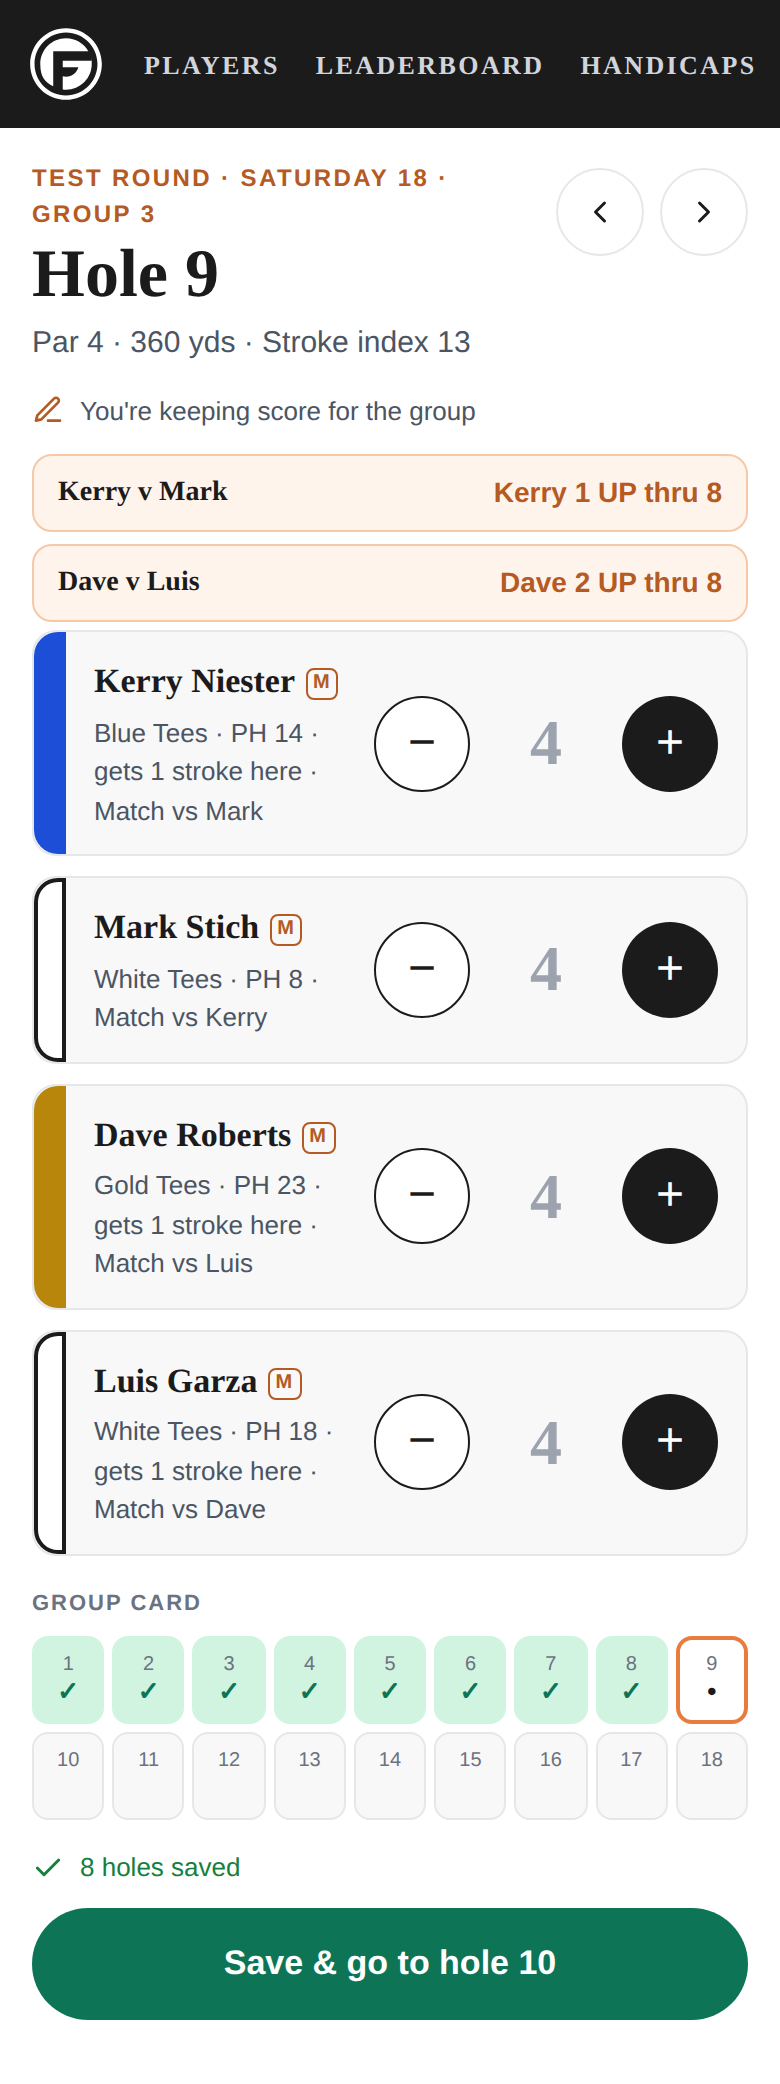
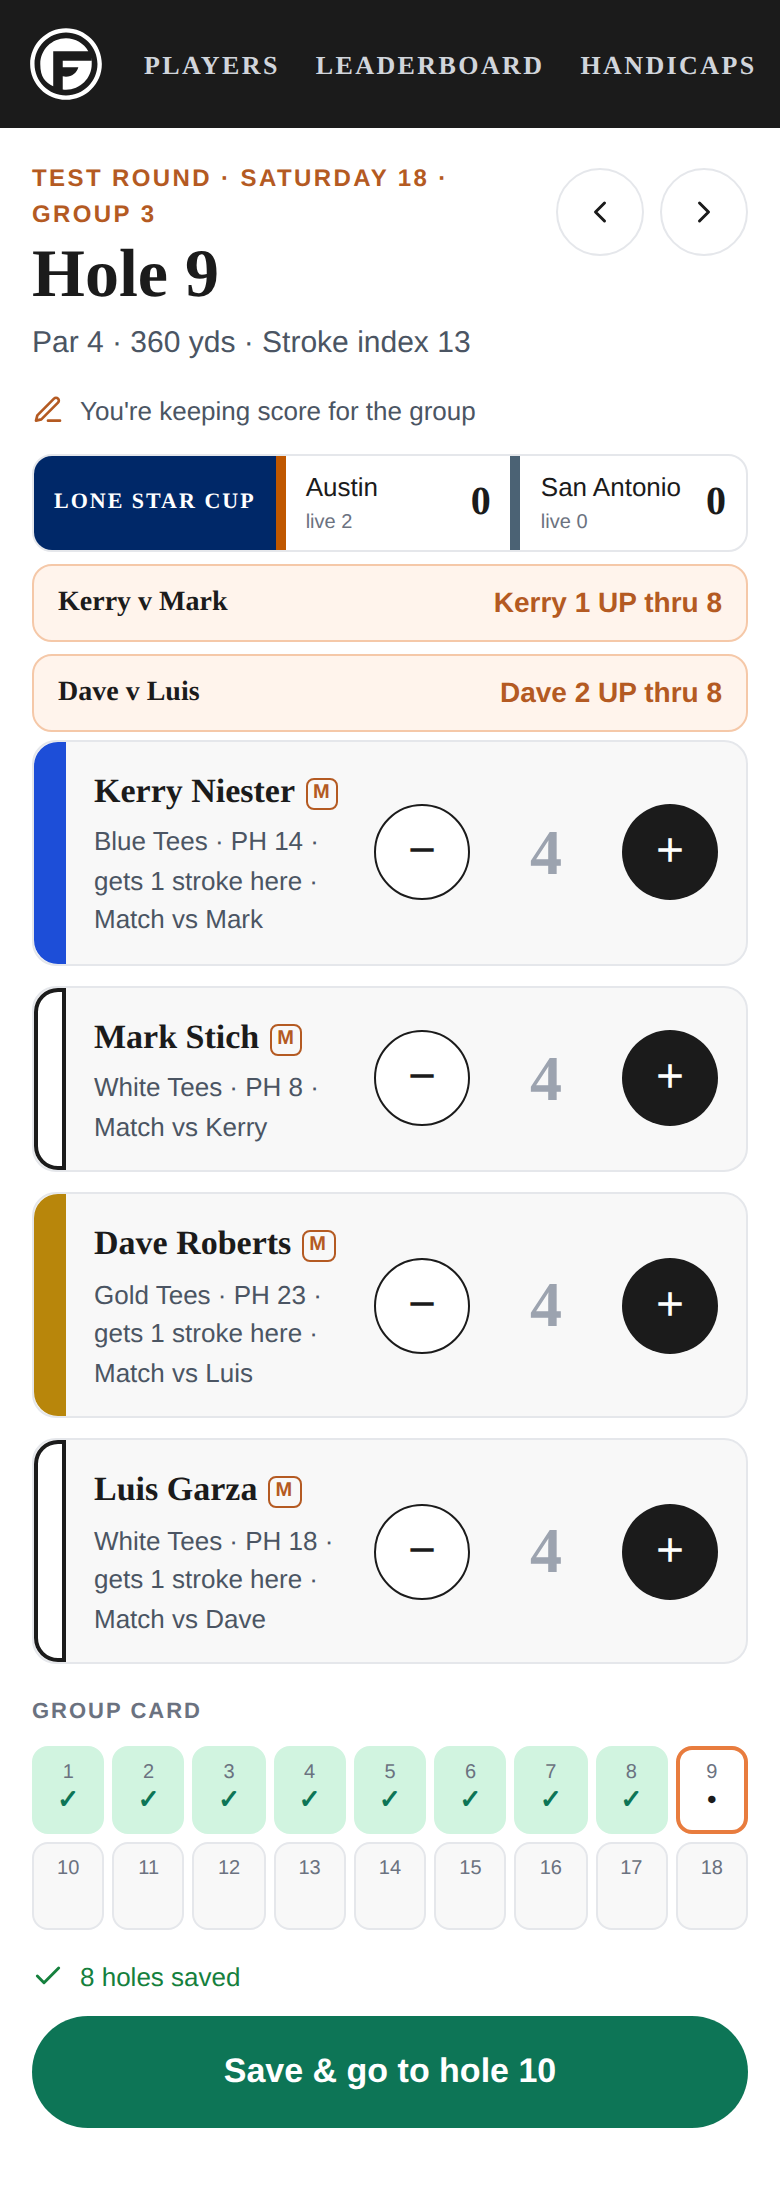
Score entry: won match shimmers; cup rounds show team standings (v2.498.5)
Claude-Session: https://claude.ai/code/session_01PeGTnLppc6bpJPrSmUWsVP

diff --git a/transaction-tracker/templates/score_entry.html b/transaction-tracker/templates/score_entry.html
@@ -210,6 +210,32 @@
         .se-mline .st { font-weight: 700; color: #B45A22; white-space: nowrap; }
         .se-mline.final { background: #F8F8F8; border-color: #E5E7EB; }
         .se-mline.final .st { color: #1B1B1B; }
+        /* A WON MATCH SHIMMERS (Kerry 2026-09-26: "kind of like our champion
+           banner on the Points Races") — the champion plaque from
+           contests.html: TGF-dark, gold frame, gold-gradient text, a slow
+           shine sweeping across. */
+        .se-mline.won { position: relative; overflow: hidden; border: 1px solid #D4A017;
+            background: linear-gradient(135deg, #1B1B1B 0%, #2E2414 55%, #1B1B1B 100%);
+            box-shadow: inset 0 0 0 2px #1B1B1B, inset 0 0 0 3px rgba(212,160,23,.55), 0 4px 14px rgba(212,160,23,.28); }
+        .se-mline.won .who { color: #D4A017; }
+        .se-mline.won .st { font-family: Bitter, Georgia, serif; font-weight: 800; color: #FFD75E;
+            background: linear-gradient(100deg, #F7E7A0 0%, #FFD75E 35%, #E0A93C 62%, #F7E7A0 100%);
+            -webkit-background-clip: text; background-clip: text; -webkit-text-fill-color: transparent; }
+        .se-mline.won::after { content: ""; position: absolute; top: -60%; bottom: -60%; width: 36%; left: -60%;
+            transform: skewX(-20deg); pointer-events: none;
+            background: linear-gradient(75deg, transparent, rgba(255,255,255,.16), transparent);
+            animation: seChampShine 3.4s ease-in-out infinite; }
+        @keyframes seChampShine { 0% { left: -60%; } 55% { left: 135%; } 100% { left: 135%; } }
+        /* LONE STAR CUP team standings beside the match */
+        .se-cup { display: flex; align-items: stretch; border-radius: 10px; overflow: hidden; border: 1px solid #E5E7EB;
+                  font-size: 13px; }
+        .se-cup .lbl { background: #002868; color: #FFFFFF; font: 700 11px/1.2 Bitter, Georgia, serif; letter-spacing: 1px;
+                       text-transform: uppercase; padding: 8px 10px; display: flex; align-items: center; }
+        .se-cup .tm { flex: 1; display: flex; justify-content: space-between; align-items: center; padding: 6px 10px; gap: 6px; }
+        .se-cup .tm b { font: 800 20px/1 Bitter, Georgia, serif; }
+        .se-cup .aus { border-left: 5px solid #BF5700; }
+        .se-cup .sa { border-left: 5px solid #4B6274; }
+        .se-cup .proj { display: block; font-size: 10px; color: #6B7280; }
         /* THE TURN: each player's nine under his name, tap one to edit */
         .se-mini { display: grid; grid-template-columns: repeat(9, minmax(0, 1fr)); gap: 3px; margin-top: 6px; width: 100%; }
         .se-mini button { height: 32px; border-radius: 7px; border: 1px solid #E5E7EB; background: #FFFFFF; cursor: pointer;
@@ -514,7 +540,12 @@
             const mine = new Set(card.players.map((p) => p.customer_id));
             const ms = (card.match_status || []).filter((m) => m.sides.flat().some((c) => mine.has(c)));
             if (!ms.length) return "";
-            return `<div class="se-mstrip">${ms.map((m) => {
+            const half = (x) => { const w = Math.floor(x), f = x - w; return (w || f === 0 ? String(w) : "") + (f >= 0.5 ? "½" : ""); };
+            const cs = card.cup_standings;
+            const cup = cs ? `<div class="se-cup"><span class="lbl">Lone Star Cup</span>
+                <span class="tm aus"><span>Austin<span class="proj">live ${half(cs.austin_projected)}</span></span><b>${half(cs.austin)}</b></span>
+                <span class="tm sa"><span>San Antonio<span class="proj">live ${half(cs.sa_projected)}</span></span><b>${half(cs.sa)}</b></span></div>` : "";
+            return `<div class="se-mstrip">${cup}${ms.map((m) => {
                 const vs = `${esc(m.names[0])} v ${esc(m.names[1])}`;
                 let st;
                 if (!m.thru) st = "Not started";
@@ -523,7 +554,8 @@
                 // holes or a putt-off), so the phone says all square, not halved.
                 else if (m.lead_side == null) st = m.final ? (m.tie_rule === "halve" ? "Halved" : `All square after ${m.thru}`) : `All square thru ${m.thru}`;
                 else st = `${esc(m.names[m.lead_side])} ${m.final ? "wins " + esc(m.margin) : esc(m.margin) + " thru " + m.thru}`;
-                return `<div class="se-mline ${m.final ? "final" : ""}"><span class="who">${vs}</span><span class="st">${st}</span></div>`;
+                const won = m.final && m.lead_side != null;
+                return `<div class="se-mline ${won ? "won" : m.final ? "final" : ""}"><span class="who">${vs}</span><span class="st">${st}</span></div>`;
             }).join("")}</div>`;
         }
         const helpBtn = (k) => `<button type="button" class="se-help ${help[k] ? "on" : ""}" data-act="help" data-k="${k}" aria-expanded="${help[k] ? "true" : "false"}">How It Works</button>`;

diff --git a/transaction-tracker/static/js/version.js b/transaction-tracker/static/js/version.js
@@ -1,5 +1,14 @@
-window.TGF_VERSION = "2.498.4";
+window.TGF_VERSION = "2.498.5";
 window.TGF_CHANGELOG = [
+  {
+    version: "2.498.5",
+    date: "2026-09-26",
+    title: "Score entry: a won match shimmers; cup rounds show the team standings",
+    changes: [
+      "Kerry, 2026-09-26: 'If a match is won, then that heading needs to shimmer kind of like our champion banner on the Points Races.' A finished match with a winner renders in the champion-plaque style (dark plate, gold lettering, the same passing shine as the Points Races champion banner). A halved or unfinished match stays plain.",
+      "Kerry: 'For Lone Star cup, It should also show an update to the Team Standings.' When the round is bound to a Lone Star Cup session, the card carries cup_standings read from the cup board itself (lsc_board_payload): Austin and San Antonio points, with the live projection under each. Rounds with no cup session show no strip. Golf Genius stays the official record."
+    ]
+  },
   {
     version: "2.498.4",
     date: "2026-09-26",

diff --git a/transaction-tracker/email_parser/score_entry.py b/transaction-tracker/email_parser/score_entry.py
@@ -190,6 +190,26 @@ def admin_overview(event_id: int, base_url: str | None = None, db_path=None) -> 
             "qr": _qr_dial(event_id, db_path)}
 
 
+def _cup_standings(round_id: int) -> dict | None:
+    """The Lone Star Cup team standings when this round is bound to a cup
+    session (Kerry 2026-09-26: "For Lone Star cup, It should also show an
+    update to the Team Standings"). Read from the cup board itself
+    (lsc_cup.lsc_board_payload), so the phone and the board agree."""
+    rm = round_matches(round_id)
+    if not any(v.get("session") is not None for v in rm.values()):
+        return None
+    from email_parser.lsc_cup import lsc_board_payload
+    b = lsc_board_payload()
+    if not b.get("configured"):
+        return None
+    t = b.get("teams") or {}
+    return {"austin": (t.get("austin") or {}).get("points", 0.0),
+            "sa": (t.get("sa") or {}).get("points", 0.0),
+            "austin_projected": (t.get("austin") or {}).get("projected", 0.0),
+            "sa_projected": (t.get("sa") or {}).get("projected", 0.0),
+            "points_to_win": b.get("points_to_win")}
+
+
 def _genders(conn, cids: list) -> dict:
     """{customer_id: 'M' | 'F'} from customers.gender; {} when the column
     is not there yet (a fresh database before its boot migration)."""
@@ -1074,13 +1094,17 @@ def get_group_card(group_id: int, device_id: str | None = None, db_path=None) ->
             match_status = _match_status(conn, g)
         except Exception:                 # a match read must never cost the card
             match_status = []
+        try:
+            cup = _cup_standings(g["round_id"]) if match_status else None
+        except Exception:
+            cup = None
     return {**extras, "group_id": group_id, "round_id": g["round_id"], "event_id": g["event_id"],
             "round_label": g["round_label"], "round_date": g["round_date"],
             "holes": g["holes"], "status": g["status"], "label": g["label"],
             "group_num": g["group_num"],
             "start_hole": g["start_hole"], "tee_time": g["tee_time"],
             "course": holes, "players": players, "teams": teams, "scores": scores,
-            "marks": marks, "match_status": match_status, "matches": {str(k): v for k, v in round_matches(g["round_id"]).items()},
+            "marks": marks, "match_status": match_status, "cup_standings": cup, "matches": {str(k): v for k, v in round_matches(g["round_id"]).items()},
             "lock": _lock_view(lock, device_id, names)}
 
 

diff --git a/transaction-tracker/test_score_entry.py b/transaction-tracker/test_score_entry.py
@@ -332,6 +332,11 @@ check("the phone's match standing is the cup board's (same engine, same numbers)
       len(ms) == 1 and ms[0]["margin"] == bd["gg_margin"] and ms[0]["thru"] == bd["thru"]
       and ms[0]["holes"].get("1") == 0 and ms[0]["names"] == ["Kerry", "Adam"], (ms, bd.get("gg_margin")))
 check("a Lone Star Cup match halves a tie", ms[0]["tie_rule"] == "halve", ms[0])
+cs = se.get_group_card(sg)["cup_standings"]
+bt = lsc_board_payload()["teams"]
+check("a cup round's card carries the team standings, the board's own numbers",
+      cs is not None and cs["austin"] == bt["austin"]["points"] and cs["sa"] == bt["sa"]["points"]
+      and cs["austin_projected"] == bt["austin"]["projected"], (cs, bt))
 db.set_app_setting("lsc_matches", "")
 se.write_scores(sg, "sk", 101, [mk("MK8", 102, 1, 5), mk("MK11", 101, 1, 4)])
 check("a round-level match must use players in the round",
@@ -342,6 +347,7 @@ check("a round-level match (the preview's demo) also marks who has a match",
       mt.get("102", {}).get("opponents") == [105] and "101" not in mt, mt)
 check("a regular-season (round-level) match follows the tie rulings, not an automatic halve",
       se.get_group_card(sg)["match_status"][0]["tie_rule"] == "rulings")
+check("a round with no cup session shows no cup standings", se.get_group_card(sg)["cup_standings"] is None)
 st = se.round_status(900)
 rs = next(r for r in st["rounds"] if r["round_id"] == sr)
 check("round_status reads holes in, signatures and matches",

diff --git a/transaction-tracker/docs/claude/score-entry.md b/transaction-tracker/docs/claude/score-entry.md
@@ -323,6 +323,21 @@ link (R8, a member send — Kerry OKs each batch) come later; the email link
 is the strong identity path, "tap your name" from a shared code is weak and
 is accepted for the beta because every action is logged by device.
 
+## Won-match shimmer and cup standings (v2.498.5)
+
+Kerry 2026-09-26: "If a match is won, then that heading needs to shimmer kind of
+like our champion banner on the Points Races. For Lone Star cup, It should also
+show an update to the Team Standings."
+
+- A match line with `final` and a `lead_side` gets class `won`: the champion
+  plaque look from contests.html (`.tgf-champ-plaque`), cloned as `.se-mline.won`
+  with its own `seChampShine` keyframes. Halved and in-progress lines stay plain.
+- `get_group_card` returns `cup_standings` from `_cup_standings(round_id)`, which
+  reads `lsc_board_payload()` (the board's own numbers, never recomputed) and is
+  `None` unless the round is bound to a cup session in `lsc_matches`. The phone
+  renders it as the `.se-cup` strip: Austin #BF5700, San Antonio #4B6274, points
+  with the live projection beneath, ½ for halves.
+
 ## Data model (`ensure_score_entry_tables`, lazily created)
 
 ```
